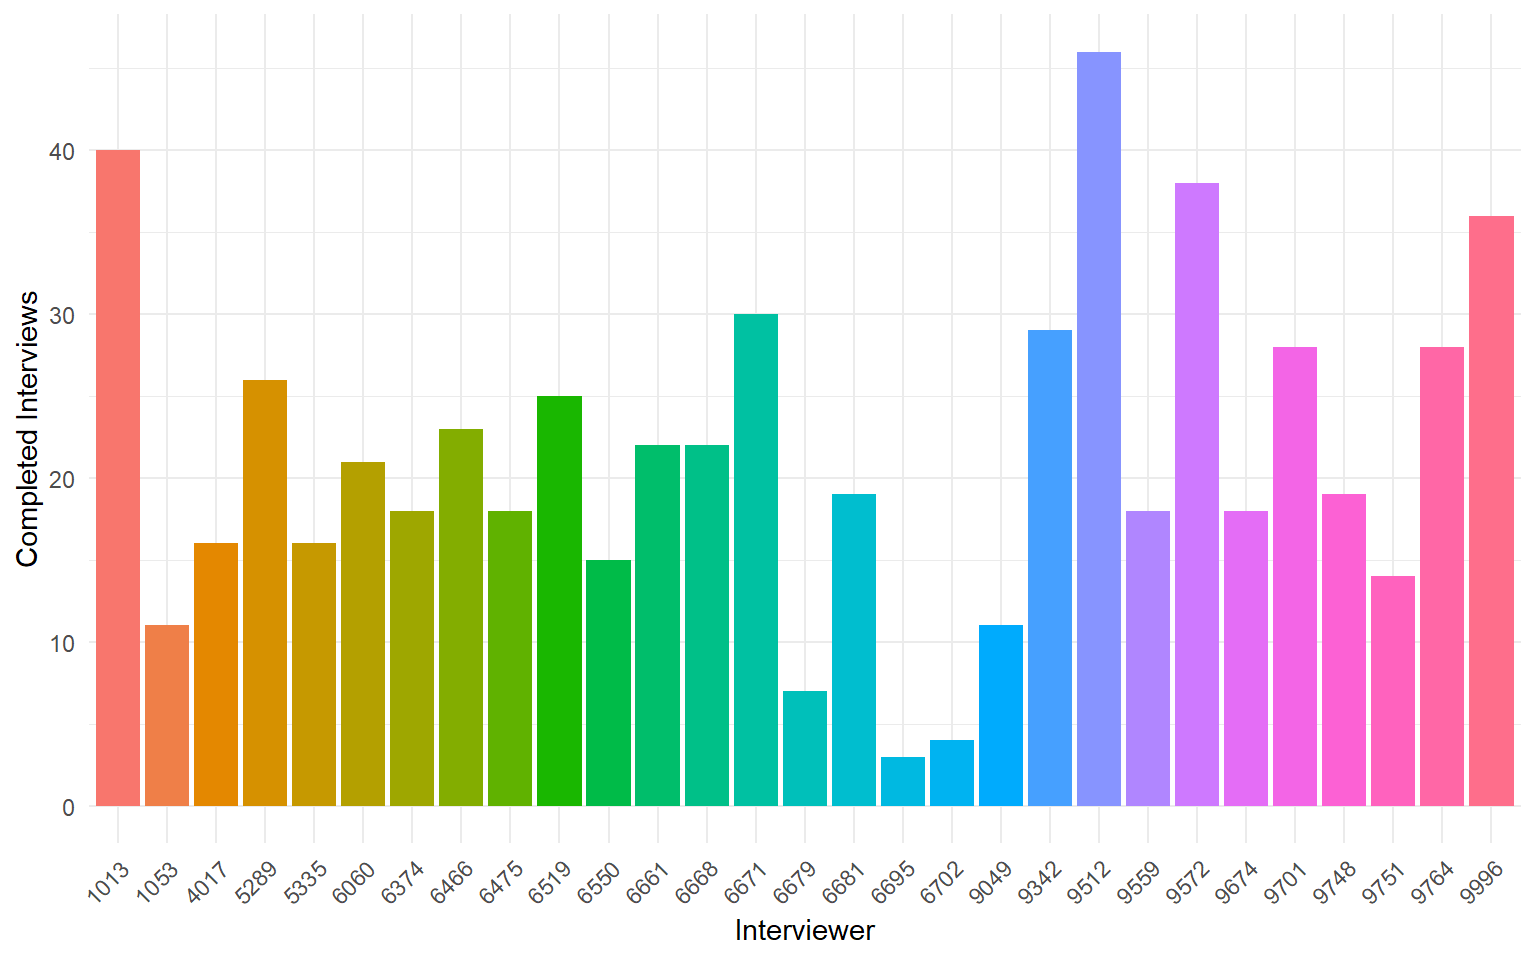
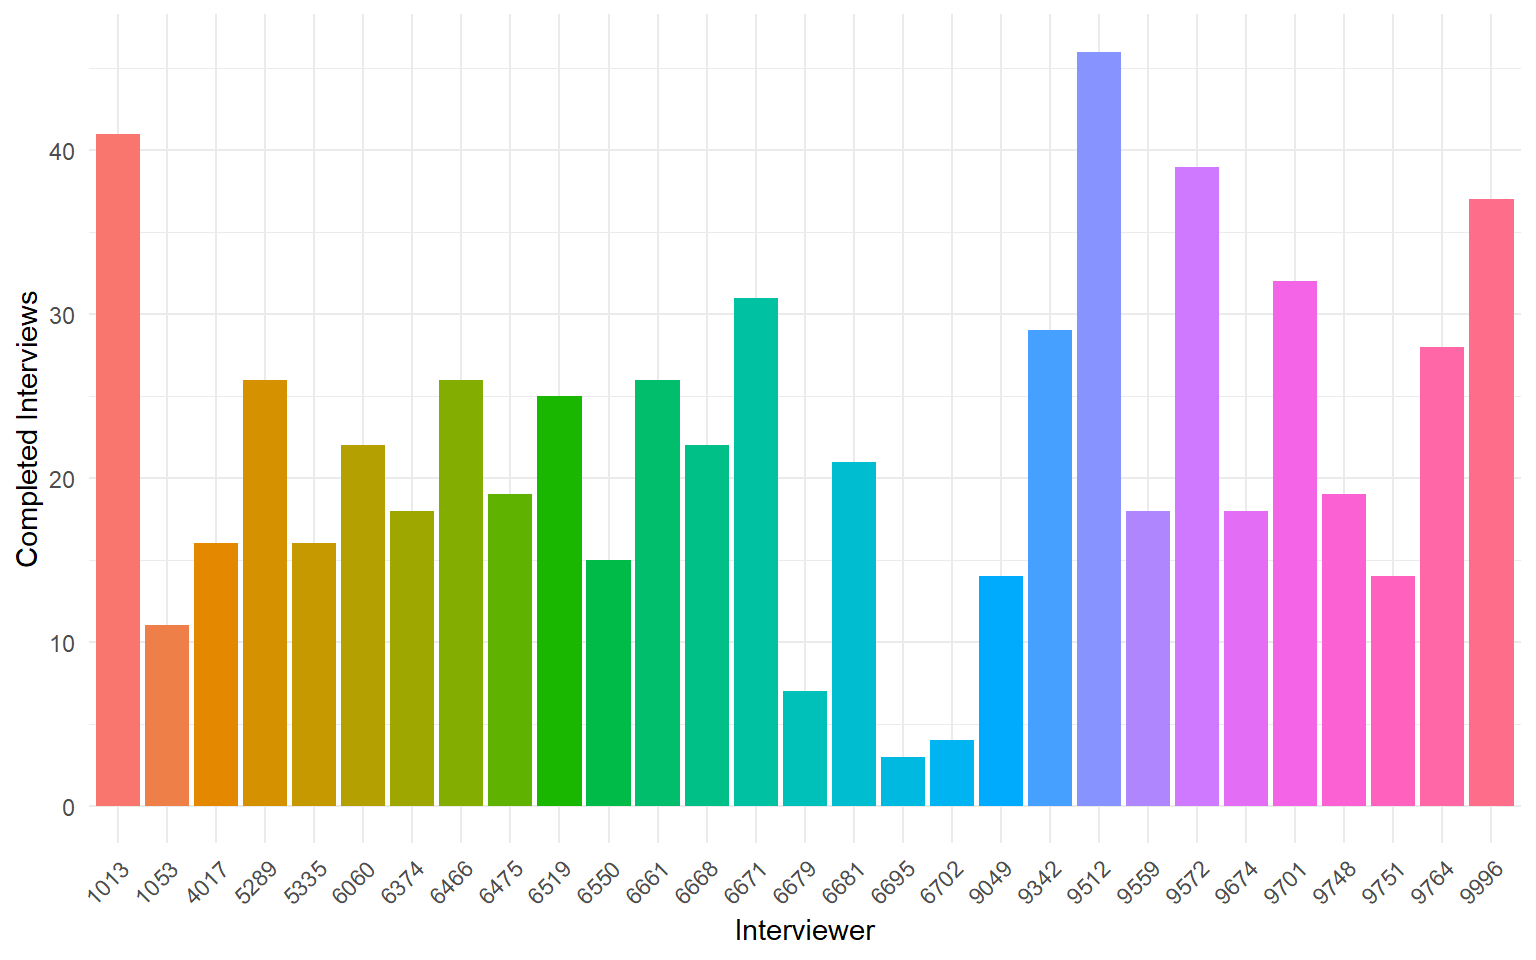
Update site content

diff --git a/about.html b/about.html
@@ -2,7 +2,7 @@
 <html xmlns="http://www.w3.org/1999/xhtml" lang="en" xml:lang="en"><head>
 
 <meta charset="utf-8">
-<meta name="generator" content="quarto-1.9.37">
+<meta name="generator" content="quarto-1.9.38">
 
 <meta name="viewport" content="width=device-width, initial-scale=1.0, user-scalable=yes">
 
@@ -38,9 +38,9 @@ ul.task-list li input[type="checkbox"] {
 <script src="site_libs/quarto-html/tippy.umd.min.js"></script>
 <script src="site_libs/quarto-html/anchor.min.js"></script>
 <link href="site_libs/quarto-html/tippy.css" rel="stylesheet">
-<link href="site_libs/quarto-html/quarto-syntax-highlighting-7f8f88aac4f3542376d5c11b86a4c14d.css" rel="stylesheet" class="quarto-color-scheme" id="quarto-text-highlighting-styles">
-<link href="site_libs/quarto-html/quarto-syntax-highlighting-dark-d0ae9245876894da5ac7e18953ecc5cc.css" rel="stylesheet" class="quarto-color-scheme quarto-color-alternate" id="quarto-text-highlighting-styles">
-<link href="site_libs/quarto-html/quarto-syntax-highlighting-7f8f88aac4f3542376d5c11b86a4c14d.css" rel="stylesheet" class="quarto-color-scheme-extra" id="quarto-text-highlighting-styles">
+<link href="site_libs/quarto-html/quarto-syntax-highlighting-15634bcf2e68342d4ad2dfa704d543f6.css" rel="stylesheet" class="quarto-color-scheme" id="quarto-text-highlighting-styles">
+<link href="site_libs/quarto-html/quarto-syntax-highlighting-dark-0a6b7249c26820e032cb0bd839ff02b1.css" rel="stylesheet" class="quarto-color-scheme quarto-color-alternate" id="quarto-text-highlighting-styles">
+<link href="site_libs/quarto-html/quarto-syntax-highlighting-15634bcf2e68342d4ad2dfa704d543f6.css" rel="stylesheet" class="quarto-color-scheme-extra" id="quarto-text-highlighting-styles">
 <script src="site_libs/bootstrap/bootstrap.min.js"></script>
 <link href="site_libs/bootstrap/bootstrap-icons.css" rel="stylesheet">
 <link href="site_libs/bootstrap/bootstrap-a0f9fd0d421825b736dc1bbcbcba2219.min.css" rel="stylesheet" append-hash="true" class="quarto-color-scheme" id="quarto-bootstrap" data-mode="light">